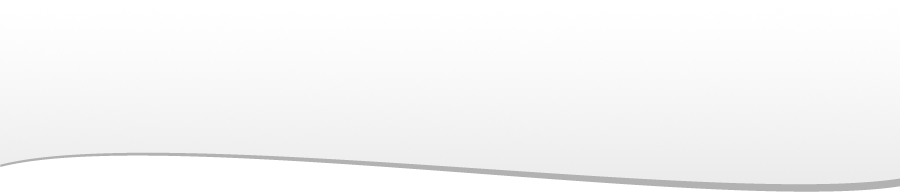
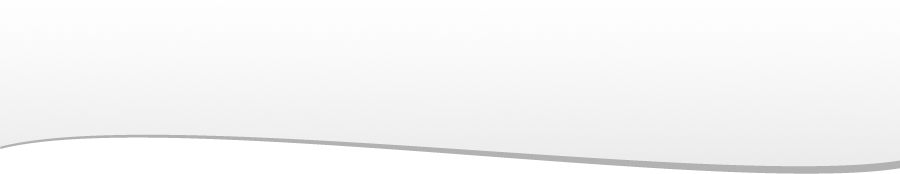
quick update

Changed region(s): [[0.0, 0.7759, 0.8089, 0.977], [0.8089, 0.9483, 0.9644, 0.977], [0.9644, 0.9195, 1.0, 0.977]]

diff --git a/company/media/css/base.css b/company/media/css/base.css
@@ -11,16 +11,11 @@ body{
 
 .header{
     position: relative;
-    height: 200px;
+    height: 175px;
     z-index: 99;
     background-image: url(../img/header-verlauf.png);
 }
 
-.header .slogan{
-    position: absolute;
-    left: 160px;
-    top: 88px;
-}
 
 .image-header{
     width: 900px;
@@ -69,7 +64,7 @@ body{
 
 .body_wrapper .shadow-left{
     position: absolute;
-    top: 225px;
+    top: 100px;
     left: -37px;
     width: 37px;
     height: 500px;
@@ -79,7 +74,7 @@ body{
 
 .body_wrapper .shadow-right{
     position: absolute;
-    top: 225px;
+    top: 100px;
     right: -37px;
     width: 37px;
     height: 500px;
@@ -139,27 +134,37 @@ a, a:visited{
     color: rgb(0,143,71);
 }
 
+
+.header .slogan{
+    position: absolute;
+    left: 160px;
+    top: 68px;
+}
+
 .logo{
     position: absolute;
     left: 50px;
-    top: 60px;
+    top: 40px;
     width: 80px;
     height: 52px;
-}
-
-img{
-    border: 0px solid #FFF;
 }
 
 .main-menu{
     background-image: url(../img/navi-bg.png);
     background-repeat: repeat-x;
-    margin-top: 75px;
+    margin-top: 55px;
     float: right;
     height: 36px;
     position: relative;
     min-width: 280px;
 }
+
+
+img{
+    border: 0px solid #FFF;
+}
+
+
 
 .main-menu .zapfen{
     width: 36px;
